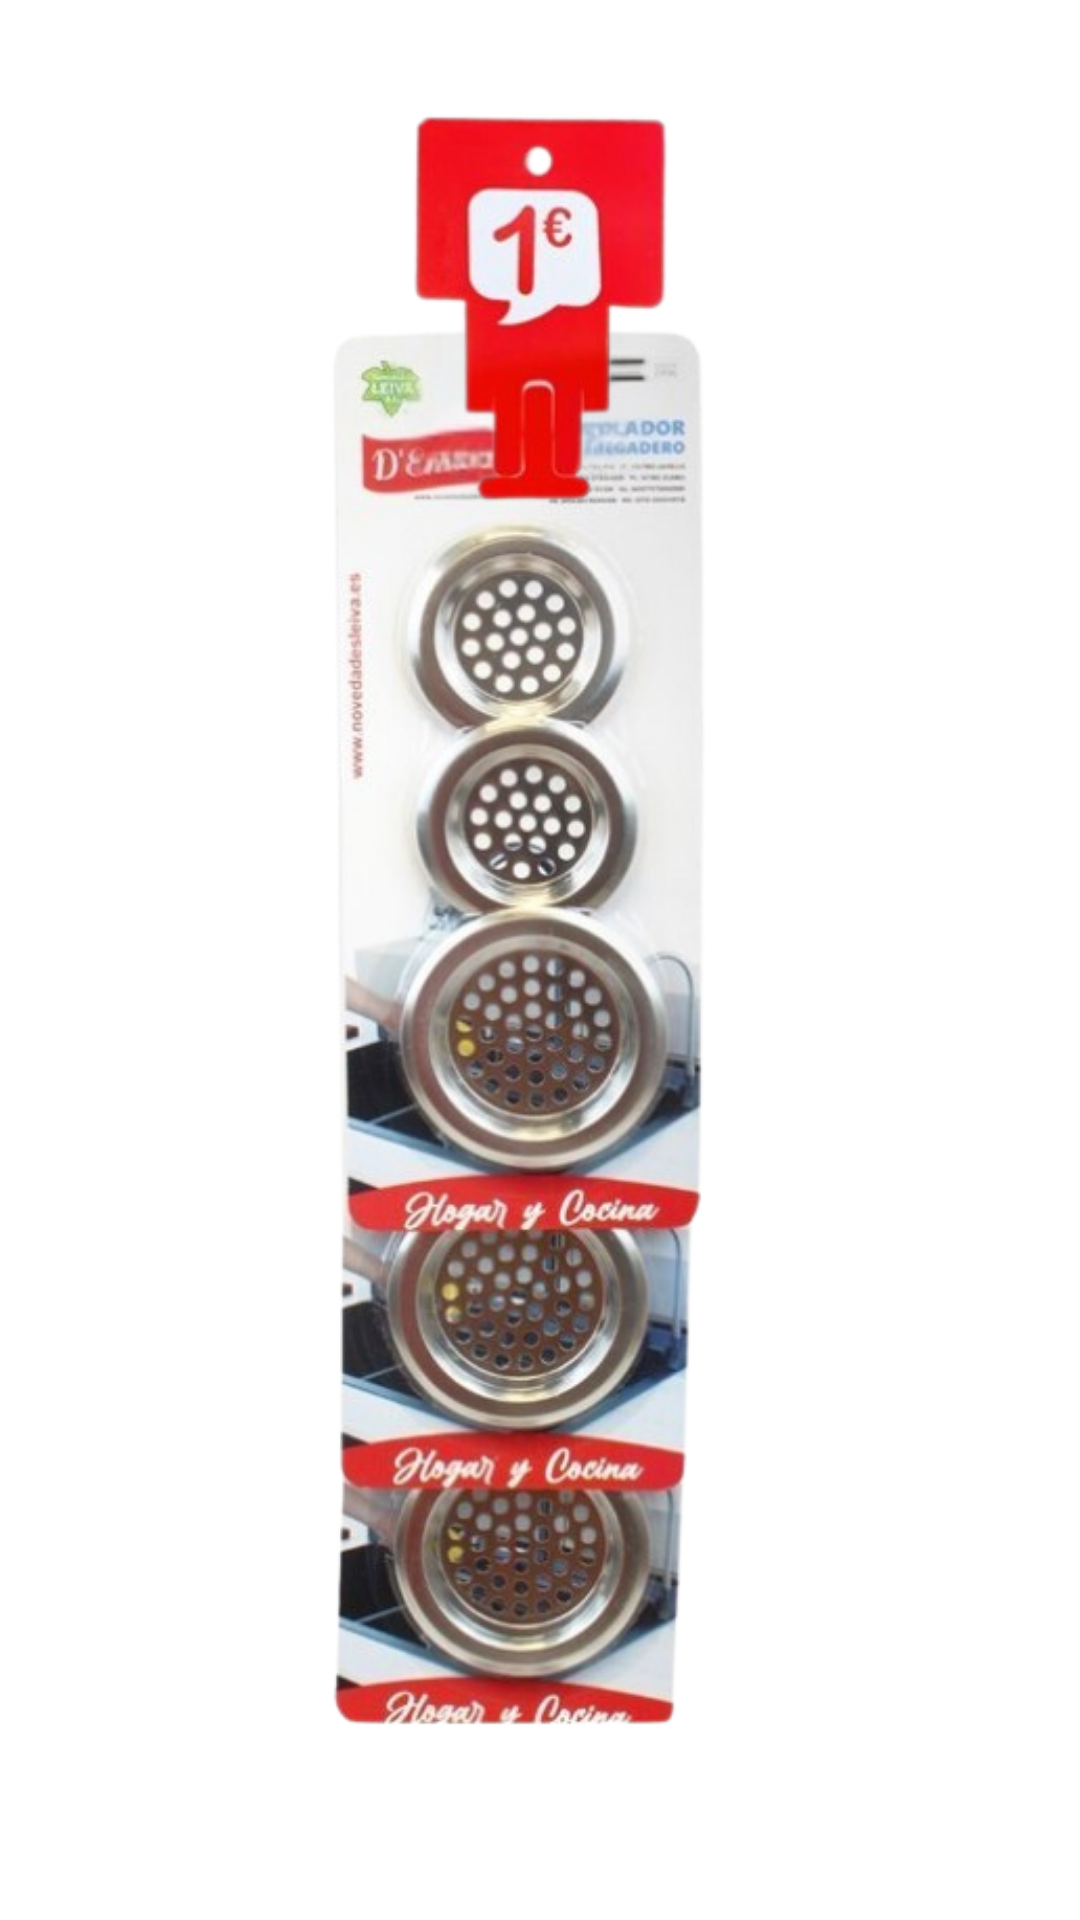
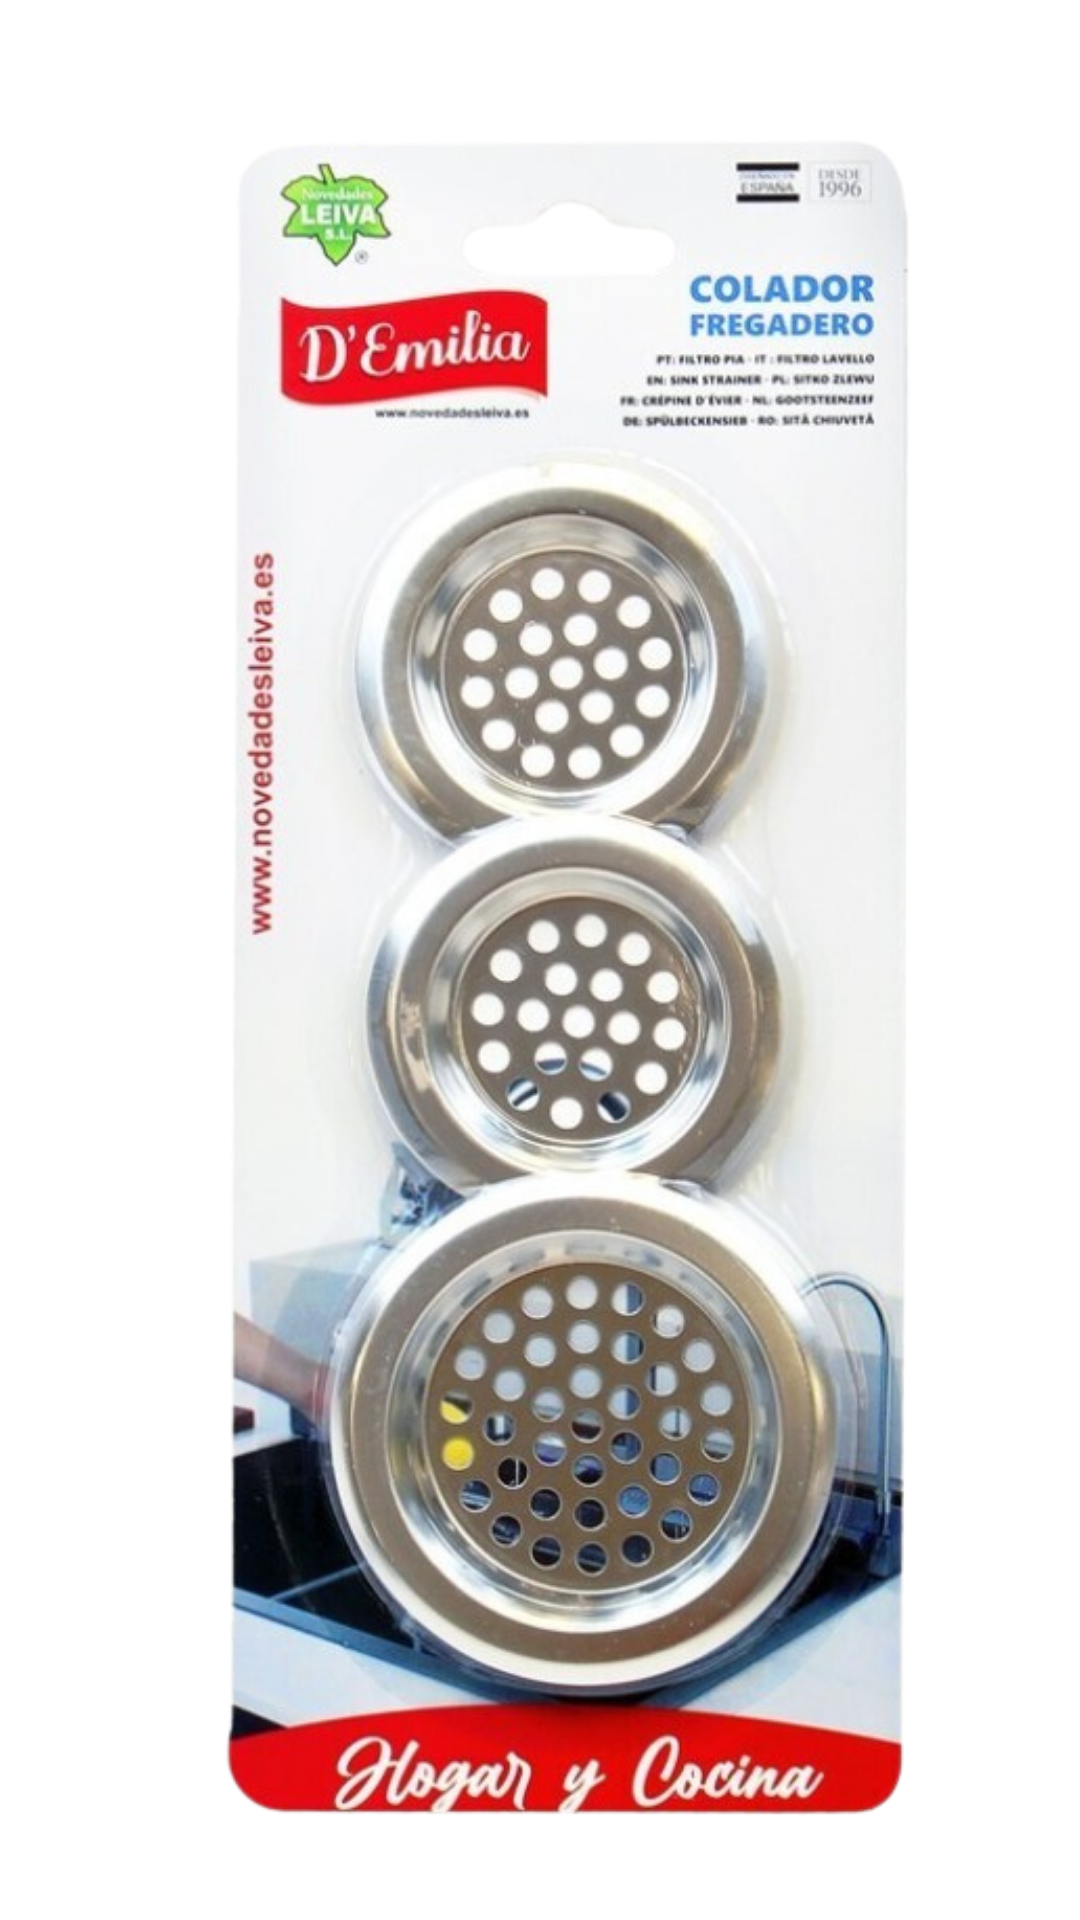
feat(strips): añadir fotos reales producto 92030E (product + preview tira 1€)

diff --git a/src/components/StripsSectionV2.tsx b/src/components/StripsSectionV2.tsx
@@ -310,7 +310,7 @@ export default function StripsSectionV2({ language: _language }: Props) {
               <button
                 key={product.id}
                 type="button"
-                onMouseEnter={() => { setPreviewSrc(product.image); setHoveredId(product.id); }}
+                onMouseEnter={() => { setPreviewSrc(product.preview); setHoveredId(product.id); }}
                 onClick={() => setSelectedProduct(product)}
                 className="group relative flex min-w-0 flex-col items-center rounded-[1rem] border border-slate-200 bg-white px-2 py-3 shadow-sm transition hover:-translate-y-1 hover:shadow-xl"
               >